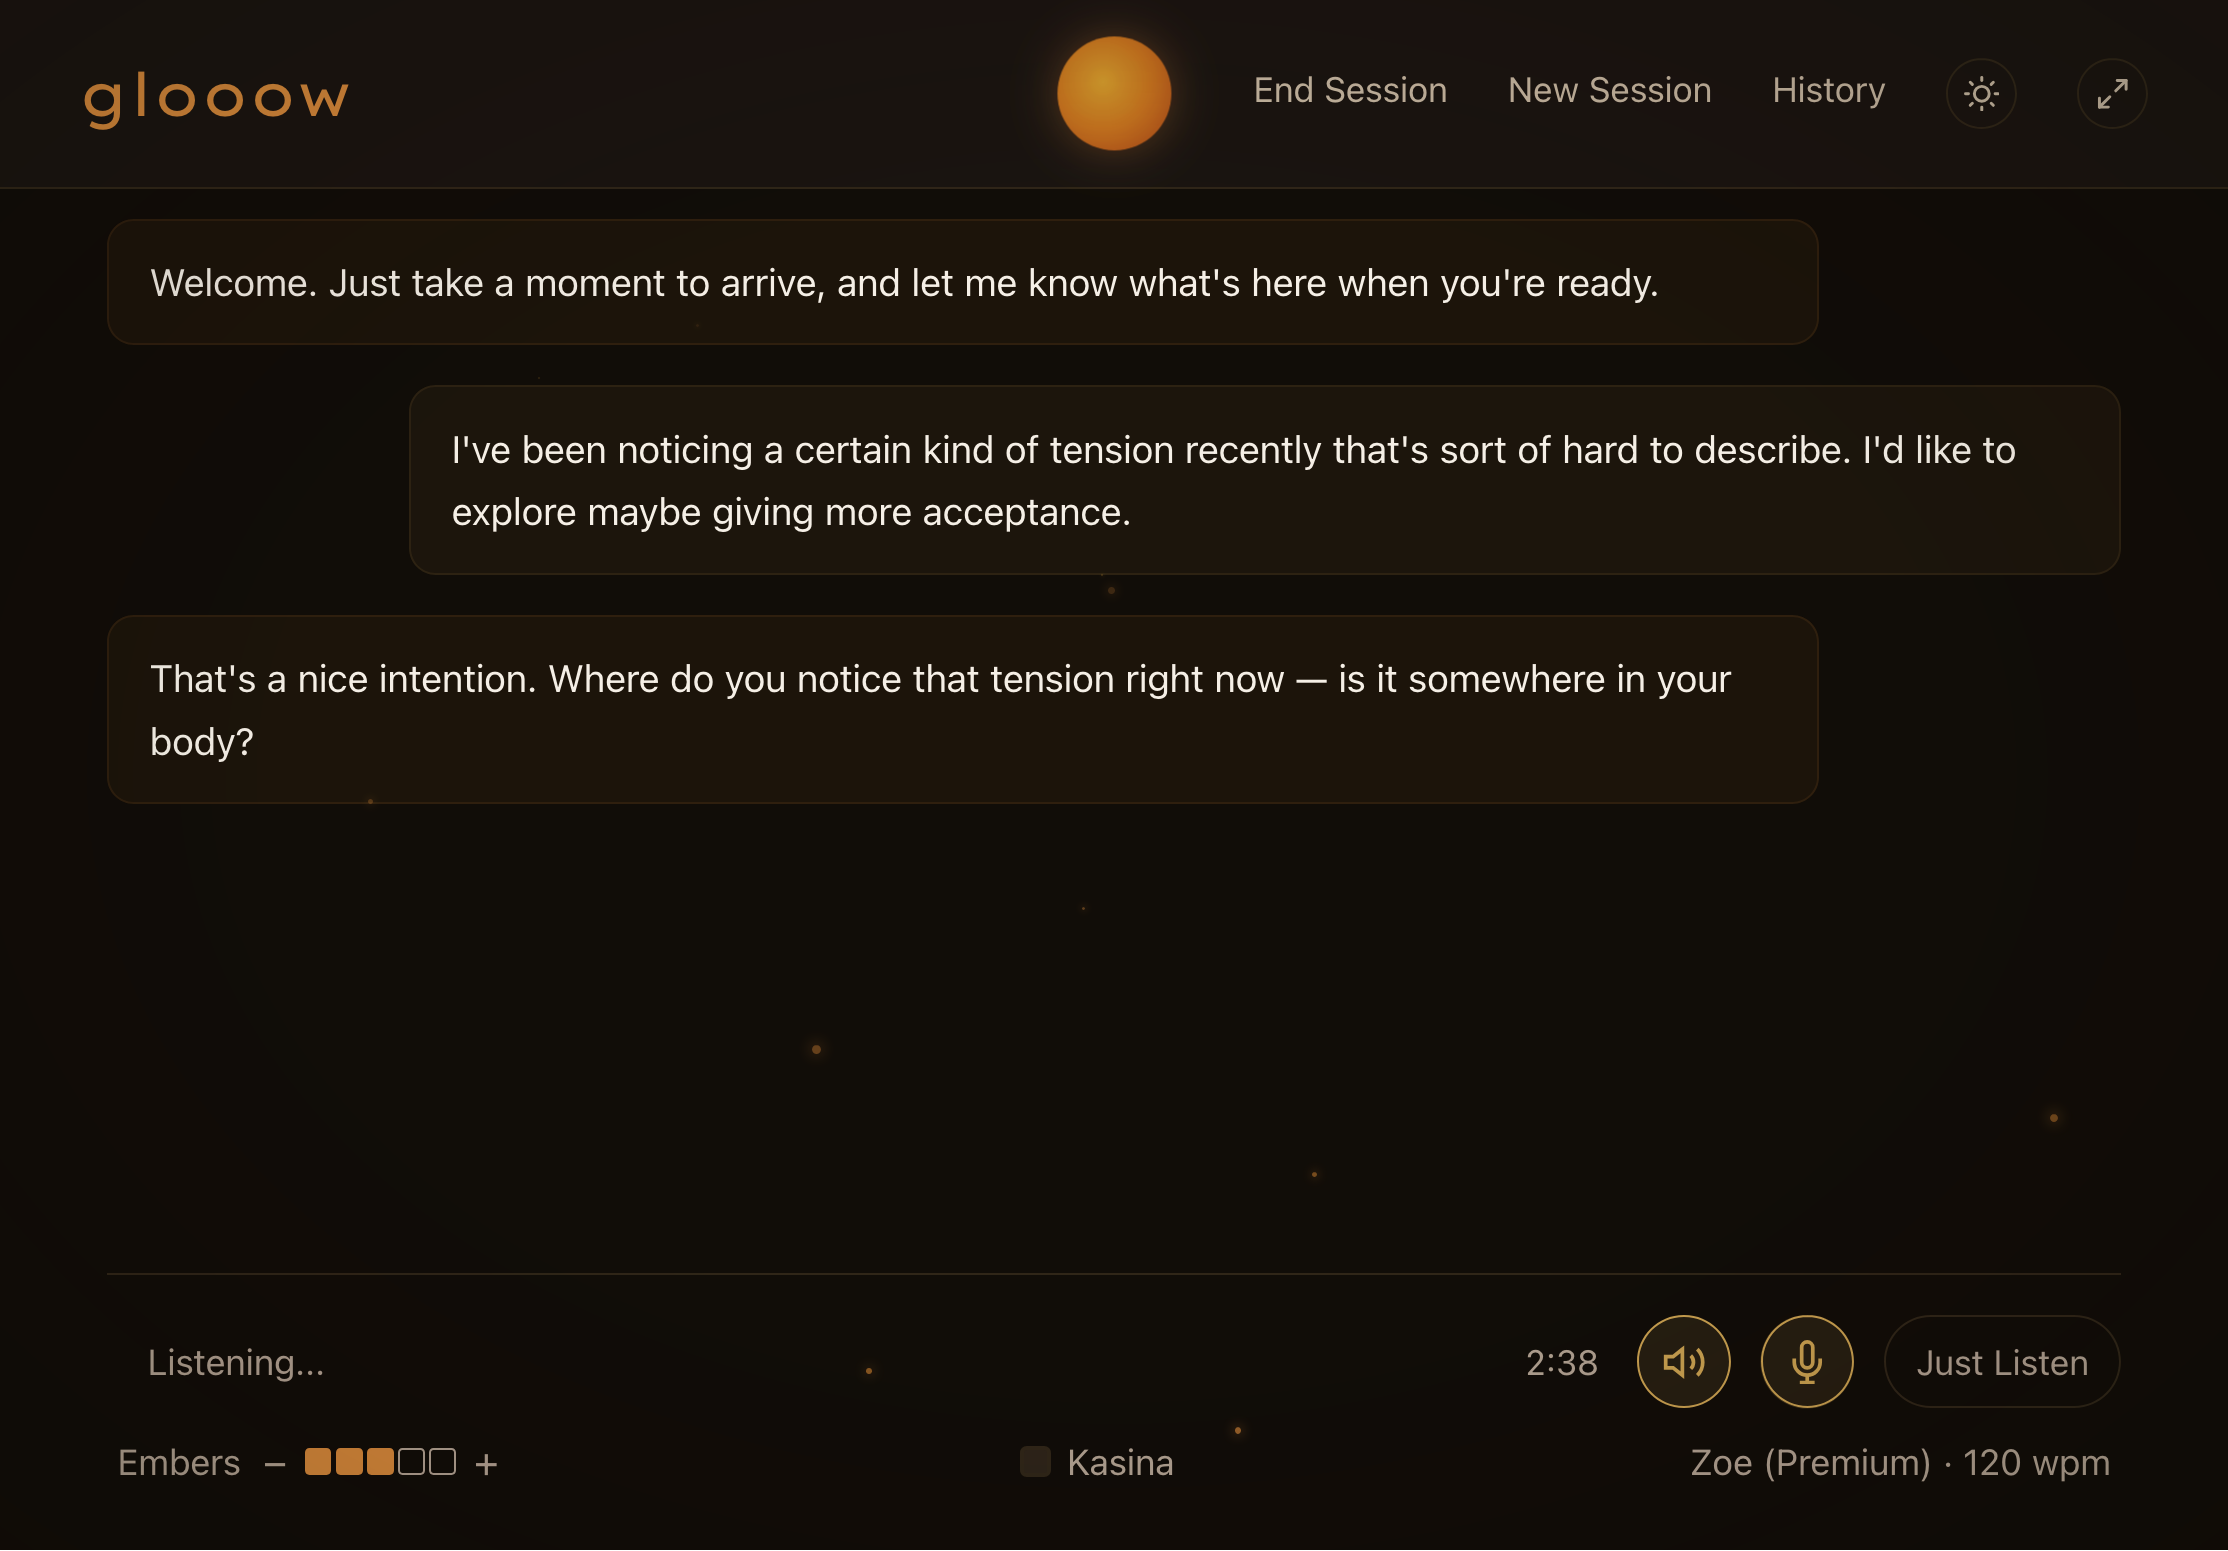
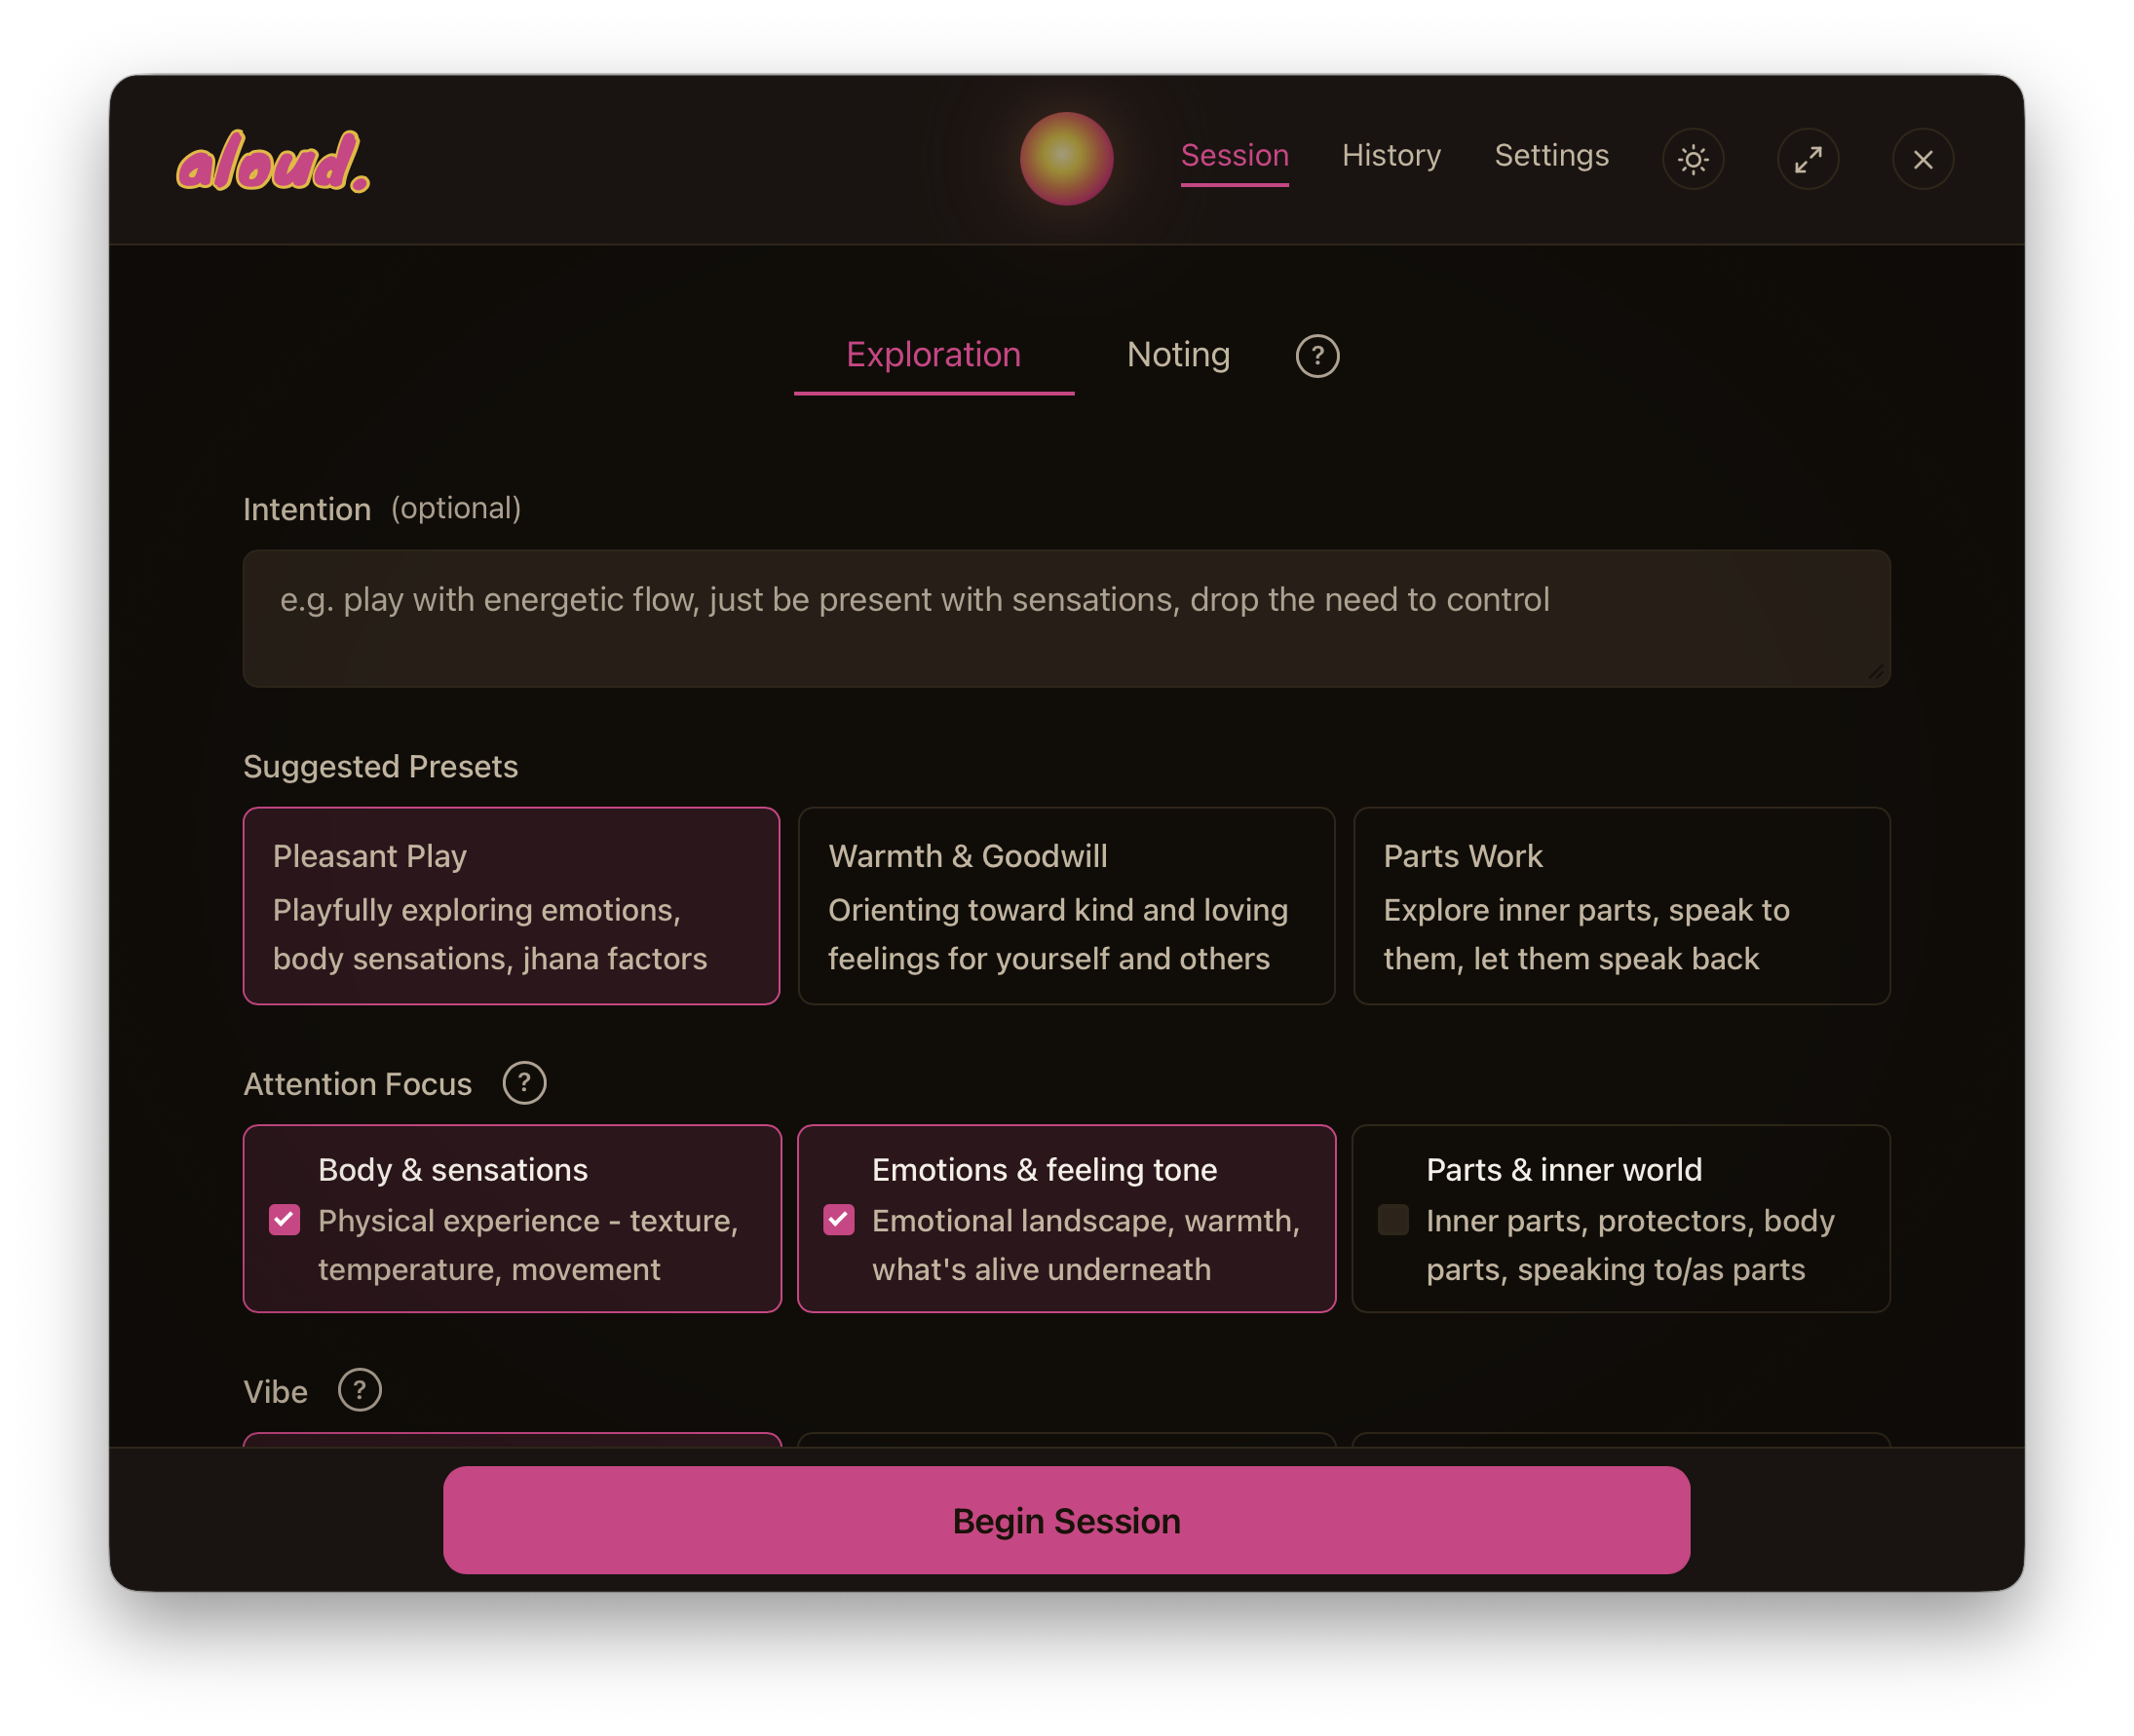
more styling touches

diff --git a/src/web/static/css/style.css b/src/web/static/css/style.css
@@ -1063,6 +1063,13 @@ option.provider-unavailable {
     transition: opacity 0.2s;
 }
 
+/* Dark mode: dark text on pink bg reads thin; bolding lifts contrast
+   without brightening the background. */
+[data-theme="dark"] .btn-begin,
+:root:not([data-theme="light"]) .btn-begin {
+    font-weight: 600;
+}
+
 .btn-begin:disabled {
     opacity: 0.4;
     cursor: not-allowed;
@@ -2055,8 +2062,8 @@ body:has(.session-container) {
     width: 48px;
     height: 48px;
     border-radius: 50%;
-    background: radial-gradient(circle at 45% 45%, #fff4c0 0%, #f5d820 25%, #ee7248 55%, #e71f75 80%, #a01050 100%);
-    box-shadow: 0 0 30px var(--accent-glow), 0 0 60px rgba(231, 31, 117, 0.22);
+    background: radial-gradient(circle at 45% 45%, #fff4c0 0%, #f5d820 25%, #ee7248 50%, #e71f75 70%, #870a3e 92%, #5a0828 100%);
+    box-shadow: 0 0 30px var(--accent-glow), 0 0 60px rgba(231, 31, 117, 0.26);
     filter: saturate(var(--orb-saturation)) brightness(var(--orb-brightness));
     transition: --orb-saturation 3s ease;
 }
@@ -2148,11 +2155,11 @@ body::before {
     height: 140px;
     z-index: 50;
     cursor: grab;
-    background: radial-gradient(circle at 45% 45%, #fff4c0 0%, #f5d820 25%, #ee7248 55%, #e71f75 80%, #a01050 100%);
+    background: radial-gradient(circle at 45% 45%, #fff4c0 0%, #f5d820 25%, #ee7248 50%, #e71f75 70%, #870a3e 92%, #5a0828 100%);
     box-shadow:
         0 0 60px rgba(245, 165, 47, 0.30),
-        0 0 120px rgba(231, 31, 117, 0.28),
-        0 0 200px rgba(231, 31, 117, 0.14);
+        0 0 120px rgba(231, 31, 117, 0.32),
+        0 0 200px rgba(231, 31, 117, 0.16);
     animation: kasinaPulse 8s ease-in-out infinite, orbFlicker 4.3s ease-in-out infinite;
     opacity: 1;
 }
@@ -2162,15 +2169,15 @@ body::before {
         transform: scale(0.98);
         box-shadow:
             0 0 60px rgba(245, 165, 47, 0.30),
-            0 0 120px rgba(231, 31, 117, 0.28),
-            0 0 200px rgba(231, 31, 117, 0.14);
+            0 0 120px rgba(231, 31, 117, 0.32),
+            0 0 200px rgba(231, 31, 117, 0.16);
     }
     50% {
         transform: scale(1.02);
         box-shadow:
             0 0 70px rgba(245, 165, 47, 0.38),
-            0 0 140px rgba(231, 31, 117, 0.34),
-            0 0 240px rgba(231, 31, 117, 0.18);
+            0 0 140px rgba(231, 31, 117, 0.40),
+            0 0 240px rgba(231, 31, 117, 0.22);
     }
 }
 

diff --git a/src/web/static/js/ui.js b/src/web/static/js/ui.js
@@ -120,8 +120,8 @@ export function setStatus(text) {
 // ---- Ember system ----
 
 export var EMBER_COUNTS = [0, 3, 6, 12, 24, 48];
-export var EMBER_COLORS_DARK = ['#e8a840', '#d4873a', '#c07830', '#e0a038', '#cc8030'];
-export var EMBER_COLORS_LIGHT = ['#fed025', '#f6b818', '#fcc430', '#f0a80e', '#f8c020'];
+export var EMBER_COLORS_DARK = ['#f5d820', '#e8b820', '#ffcc00', '#fcc430', '#f5a52f'];
+export var EMBER_COLORS_LIGHT = ['#f5b000', '#f5c020', '#f5c810', '#e8a820', '#ffb820'];
 export var EMBER_COLORS_RAINBOW = ['#f7a8c4', '#f4b8a0', '#f5e6a0', '#a8e6cf', '#a0e0f0', '#c4b4f0', '#e8a0d8'];
 export var EMBER_SHRINK_RATE = 0.3; // px/s — constant for all embers
 

diff --git a/docs/style.md b/docs/style.md
@@ -1,0 +1,138 @@
+# aloud. — visual identity
+
+Reference for the brand and color system locked in 2026-05-19. When in doubt, prefer this doc over what's "natural" to grep — the palette is deliberately loud, and previous warm/amber values still appear in places that were missed.
+
+## Brand name usage
+
+- **`aloud.`** (with terminal period) — titles, page `<title>`s, headers, logo, About modal, anywhere the brand is rendered as identity.
+- **`aloud`** (no period) — mid-sentence prose, e.g. "Choose how aloud connects to a language model."
+- Repo: `github.com/akrusz/aloud` (no period — the trademark display has the period; the repo doesn't, to avoid awkward `aloud..git` URLs).
+- macOS bundle id: `app.aloud.meditation`.
+
+## Logo
+
+The brand mark is **Knewave**, a chunky display font. **Use Knewave ONLY for the logo** — `.nav-brand`, `.about-app-name`, and the inline `.brand-mark` span. Everything else (settings titles, welcome headers, h1–h6) stays in the body font.
+
+Logo treatment:
+
+- **Fill**: `var(--accent)` (pink)
+- **Stroke**: `var(--brand-stroke)` (yellow), via `-webkit-text-stroke` + `paint-order: stroke fill` so the stroke renders *outside* the letters (doesn't eat into the fill).
+- **Stroke widths scale with size**: 2px on `.brand-mark` (inline, ~1.4em of surrounding text), 3px on `.nav-brand` (1.8rem), 4px on `.about-app-name` (2.4rem). Hover on `.nav-brand` thickens to 4px.
+- **Letter-spacing**: `0.05em` on nav/about, `0.04em` inline.
+- **No text-shadow glow.** Stroke replaces it — we experimented with both, stroke won.
+
+When the brand appears inline in body copy (welcome cards, hints), use `<span class="brand-mark">aloud.</span>` rather than a heading. The class sizes it at `1.4em` relative to surroundings so Knewave reads at proper brand presence without breaking the line.
+
+## Color tokens
+
+All in `src/web/static/css/style.css` at the top. **Always reference via CSS variables, not hex literals.** Hardcoded hexes still exist in a few places (orb gradients, rgba alpha layers); fine, but new code uses tokens.
+
+### Both themes share
+
+| Token | Purpose |
+|---|---|
+| `--accent` | Primary brand color (pink). Borders, button fills, focus, active states. |
+| `--accent-hover` | Darker pink for hover/pressed. |
+| `--accent-dim` | Accent at low alpha — backgrounds for accent-tinted areas. |
+| `--accent-glow` | Halo color for tour spotlights, button hover halos, orb breathing, focus rings. **Orange**, not yellow — yellow at low alpha against dim backgrounds blends perceptually toward green. |
+| `--brand-stroke` | Yellow used for the logo's outline stroke and the tour-overlay-flat tint. |
+| `--brand-glow` | Yellow soft-shadow color — defined but rarely used now that stroke replaced glow on the brand. Keep for future use. |
+| `--warm` | Secondary muted gold accent. |
+
+### Light mode
+
+```
+--bg-primary:    #fdf4ea   /* warm peach — desaturated #f5a52f */
+--bg-secondary:  #f5e6d4
+--bg-card:       #ead8c0
+--bg-input:      #fffaf2
+--bg-surface:    #ffffff
+--bg-tertiary:   #efe0cc
+--text-primary:  #1f1a18   /* warm near-black */
+--text-secondary:#5c4a44
+--text-muted:    #756058
+--accent:        #e71f75   /* hot pink */
+--accent-hover:  #c01560
+--accent-glow:   rgba(245, 165, 47, 0.45)   /* orange */
+--brand-stroke:  #ffd820   /* bright sunny yellow */
+--brand-glow:    rgba(245, 216, 32, 0.85)
+--warm:          #e5a01a
+--border:        #e2d0b8
+```
+
+### Dark mode
+
+The dark-mode backgrounds are **neutral-warm browns**, not pink-tinted. We tried pink-shifted dark bgs (B≥G in the hex) — they made the pink accent elements read as cool/blue by relative contrast. The current values are restored from the pre-rebrand warm palette and the pink pops cleanly against them.
+
+```
+--bg-primary:    #110d08   /* warm dark brown */
+--bg-secondary:  #1a1410
+--bg-card:       #221a13
+--bg-input:      #281f16
+--bg-surface:    #2e2419
+--bg-tertiary:   #1e1710
+--text-primary:  #f5efe6   /* warm off-white */
+--text-secondary:#c4b49e
+--text-muted:    #b0a090
+--accent:        #d63a85   /* muted pink (less harsh on dark) */
+--accent-hover:  #c02a72
+--accent-glow:   rgba(245, 165, 47, 0.30)   /* same orange, lower alpha */
+--brand-stroke:  #e8b820   /* warmer gold */
+--brand-glow:    rgba(255, 220, 80, 0.55)
+--warm:          #c4a850
+--border:        #302618
+```
+
+## Orb gradient
+
+Both `.orb` (small, in nav) and `.orb-kasina` (large, click-orb-during-session) use the **same radial gradient**. Single source of truth — if you change one, change both.
+
+```css
+background: radial-gradient(circle at 45% 45%,
+    #fff4c0 0%,   /* cream-yellow gazing center */
+    #f5d820 25%,  /* warm yellow band */
+    #ee7248 50%,  /* coral */
+    #e71f75 70%,  /* hot pink — encroaches well inward */
+    #870a3e 92%,  /* deep magenta */
+    #5a0828 100%  /* darkest crimson — final ring, adds edge depth */
+);
+```
+
+The center cream-yellow is intentionally not pure white — it's slightly tinted (`#fff4c0`) so on dark bgs it doesn't read as a white blob. Stop at 25% gives the yellow a visible band rather than a single point. Pink dominates from 55%-100% with a deep magenta edge for intensity.
+
+Box-shadow halos: orange inner (`var(--accent-glow)` ≈ `#f5a52f`) + pink outer (`rgba(231, 31, 117, 0.22-0.40)` depending on size and pulse state). Kasina has three stacked halos; small orb has two.
+
+**Don't touch** the rainbow easter-egg orb (`.orb-rainbow`) — it's deliberately a multi-color cycle.
+
+## Tour popup styling
+
+Two visual modes:
+
+1. **Spotlighted step** (highlights a UI element): `.tour-spotlight` is positioned over the target, with a `9999px` outer box-shadow at 55% black to dim everything else. Glow ring around the spotlight uses `var(--accent-glow)` (orange).
+2. **Welcome / done card** (centered, no spotlight): `.tour-overlay-flat` class added to the overlay via JS (in `showCard()` toggle based on `className === 'tour-welcome'`). Renders a **flat tinted backdrop**: yellow tint via `color-mix(in srgb, var(--brand-stroke) 30%, transparent)`, plus a thin brightness-shift gradient on top (`rgba(0,0,0,0.18)` in light, `rgba(255,255,255,0.18)` in dark) to actually create dim separation. The welcome card itself has **no glow box-shadow** — just a drop shadow.
+
+Don't add a glow halo to `.tour-welcome` — the flat overlay handles separation. Glow rings imply "look here, click this" which the welcome step doesn't offer.
+
+## Embers
+
+Ambient floating particles. Palette per theme, defined in `src/web/static/js/ui.js`:
+
+- **Light mode** (`EMBER_COLORS_LIGHT`): saturated gold-yellows that contrast against the peach bg. Avoid pale yellows like `#f5e060` — they wash into the bg at the 0.7 peak opacity the ember animation targets.
+- **Dark mode** (`EMBER_COLORS_DARK`): brighter pure yellows plus one orange (`#f5a52f`) for variety. Avoid pale/cream yellows like `#fff4c0` — they read as white blobs against the dark bg.
+- **Rainbow mode** (`EMBER_COLORS_RAINBOW`): pastel rainbow cycle, untouched (paired with the rainbow easter-egg orb).
+
+Halo derived per-ember via `hexGlow()`. Light mode has an `!important` amber box-shadow override on `.ember` that wins regardless of inline color — leave it (the warmth reads well against peach).
+
+## Inline circled `?`
+
+For body copy that references the page's info buttons (tour hints, welcome cards), use `<span class="info-btn-glyph">?</span>`. It's a non-interactive twin of `.info-btn` — same circled-question-mark look, but smaller, with `currentColor` border so it inherits the surrounding text color. Don't use `<strong>?</strong>` (forces line wrap with awkward bolding) or the real `.info-btn` (it's a button with cursor/hover; semantically wrong inline).
+
+## Things to avoid
+
+- **Don't use Knewave outside the three brand classes.** Settings page headers, welcome `<h1>`s, etc. all use the body font.
+- **Don't use `#f5f600`** (pure yellow) — it's green-leaning. Use `#ffd820` / `#f5d020` / `#e8b820` family.
+- **Don't reintroduce the old warm amber colors** (`#d4873a`, `#e8a840`, `#c07830`, etc.) — they predate the rebrand and don't match anything.
+- **Don't pink-tint the dark-mode backgrounds.** Keep them warm-neutral browns. (We tried and the relative contrast made the pink accent look bluer.)
+- **Don't add glow rings to `.tour-welcome` cards.** The flat tinted overlay does the separation work.
+- **Don't tint `--accent-glow` yellow.** Yellow at low alpha reads green over dim bgs — stay orange.
+- **Don't use `text-shadow` for brand glow.** Stroke replaced it.